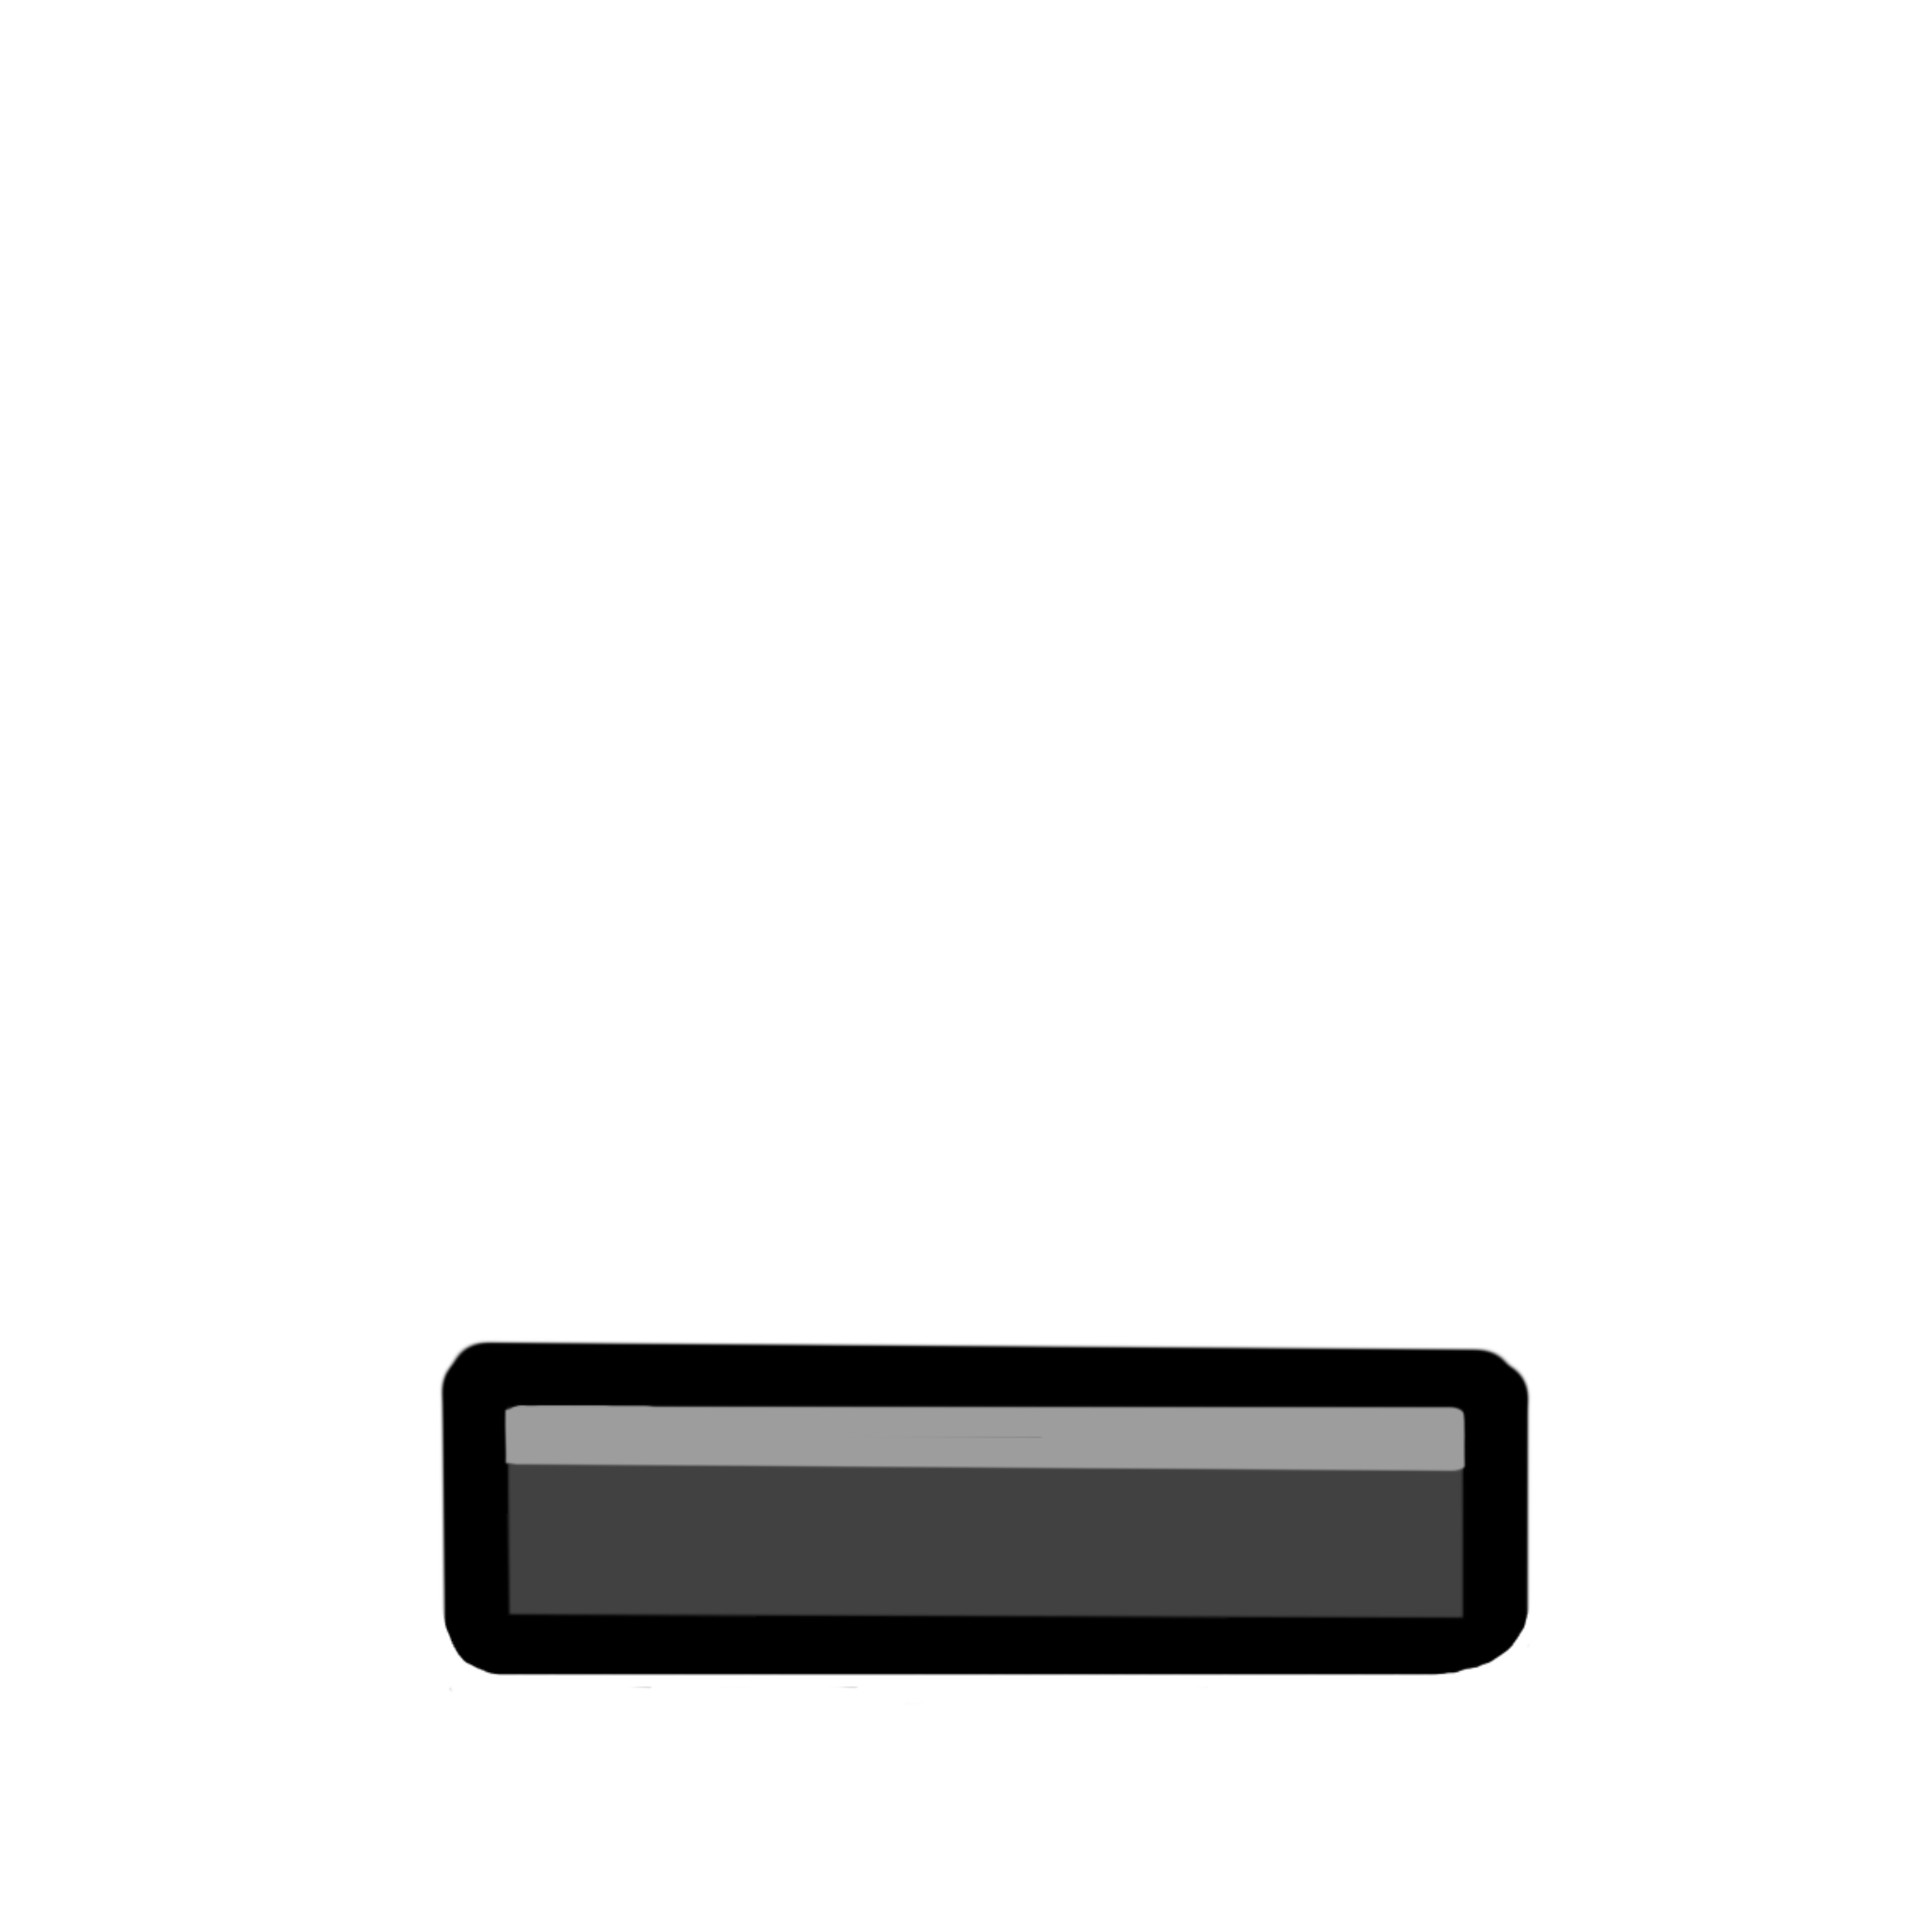
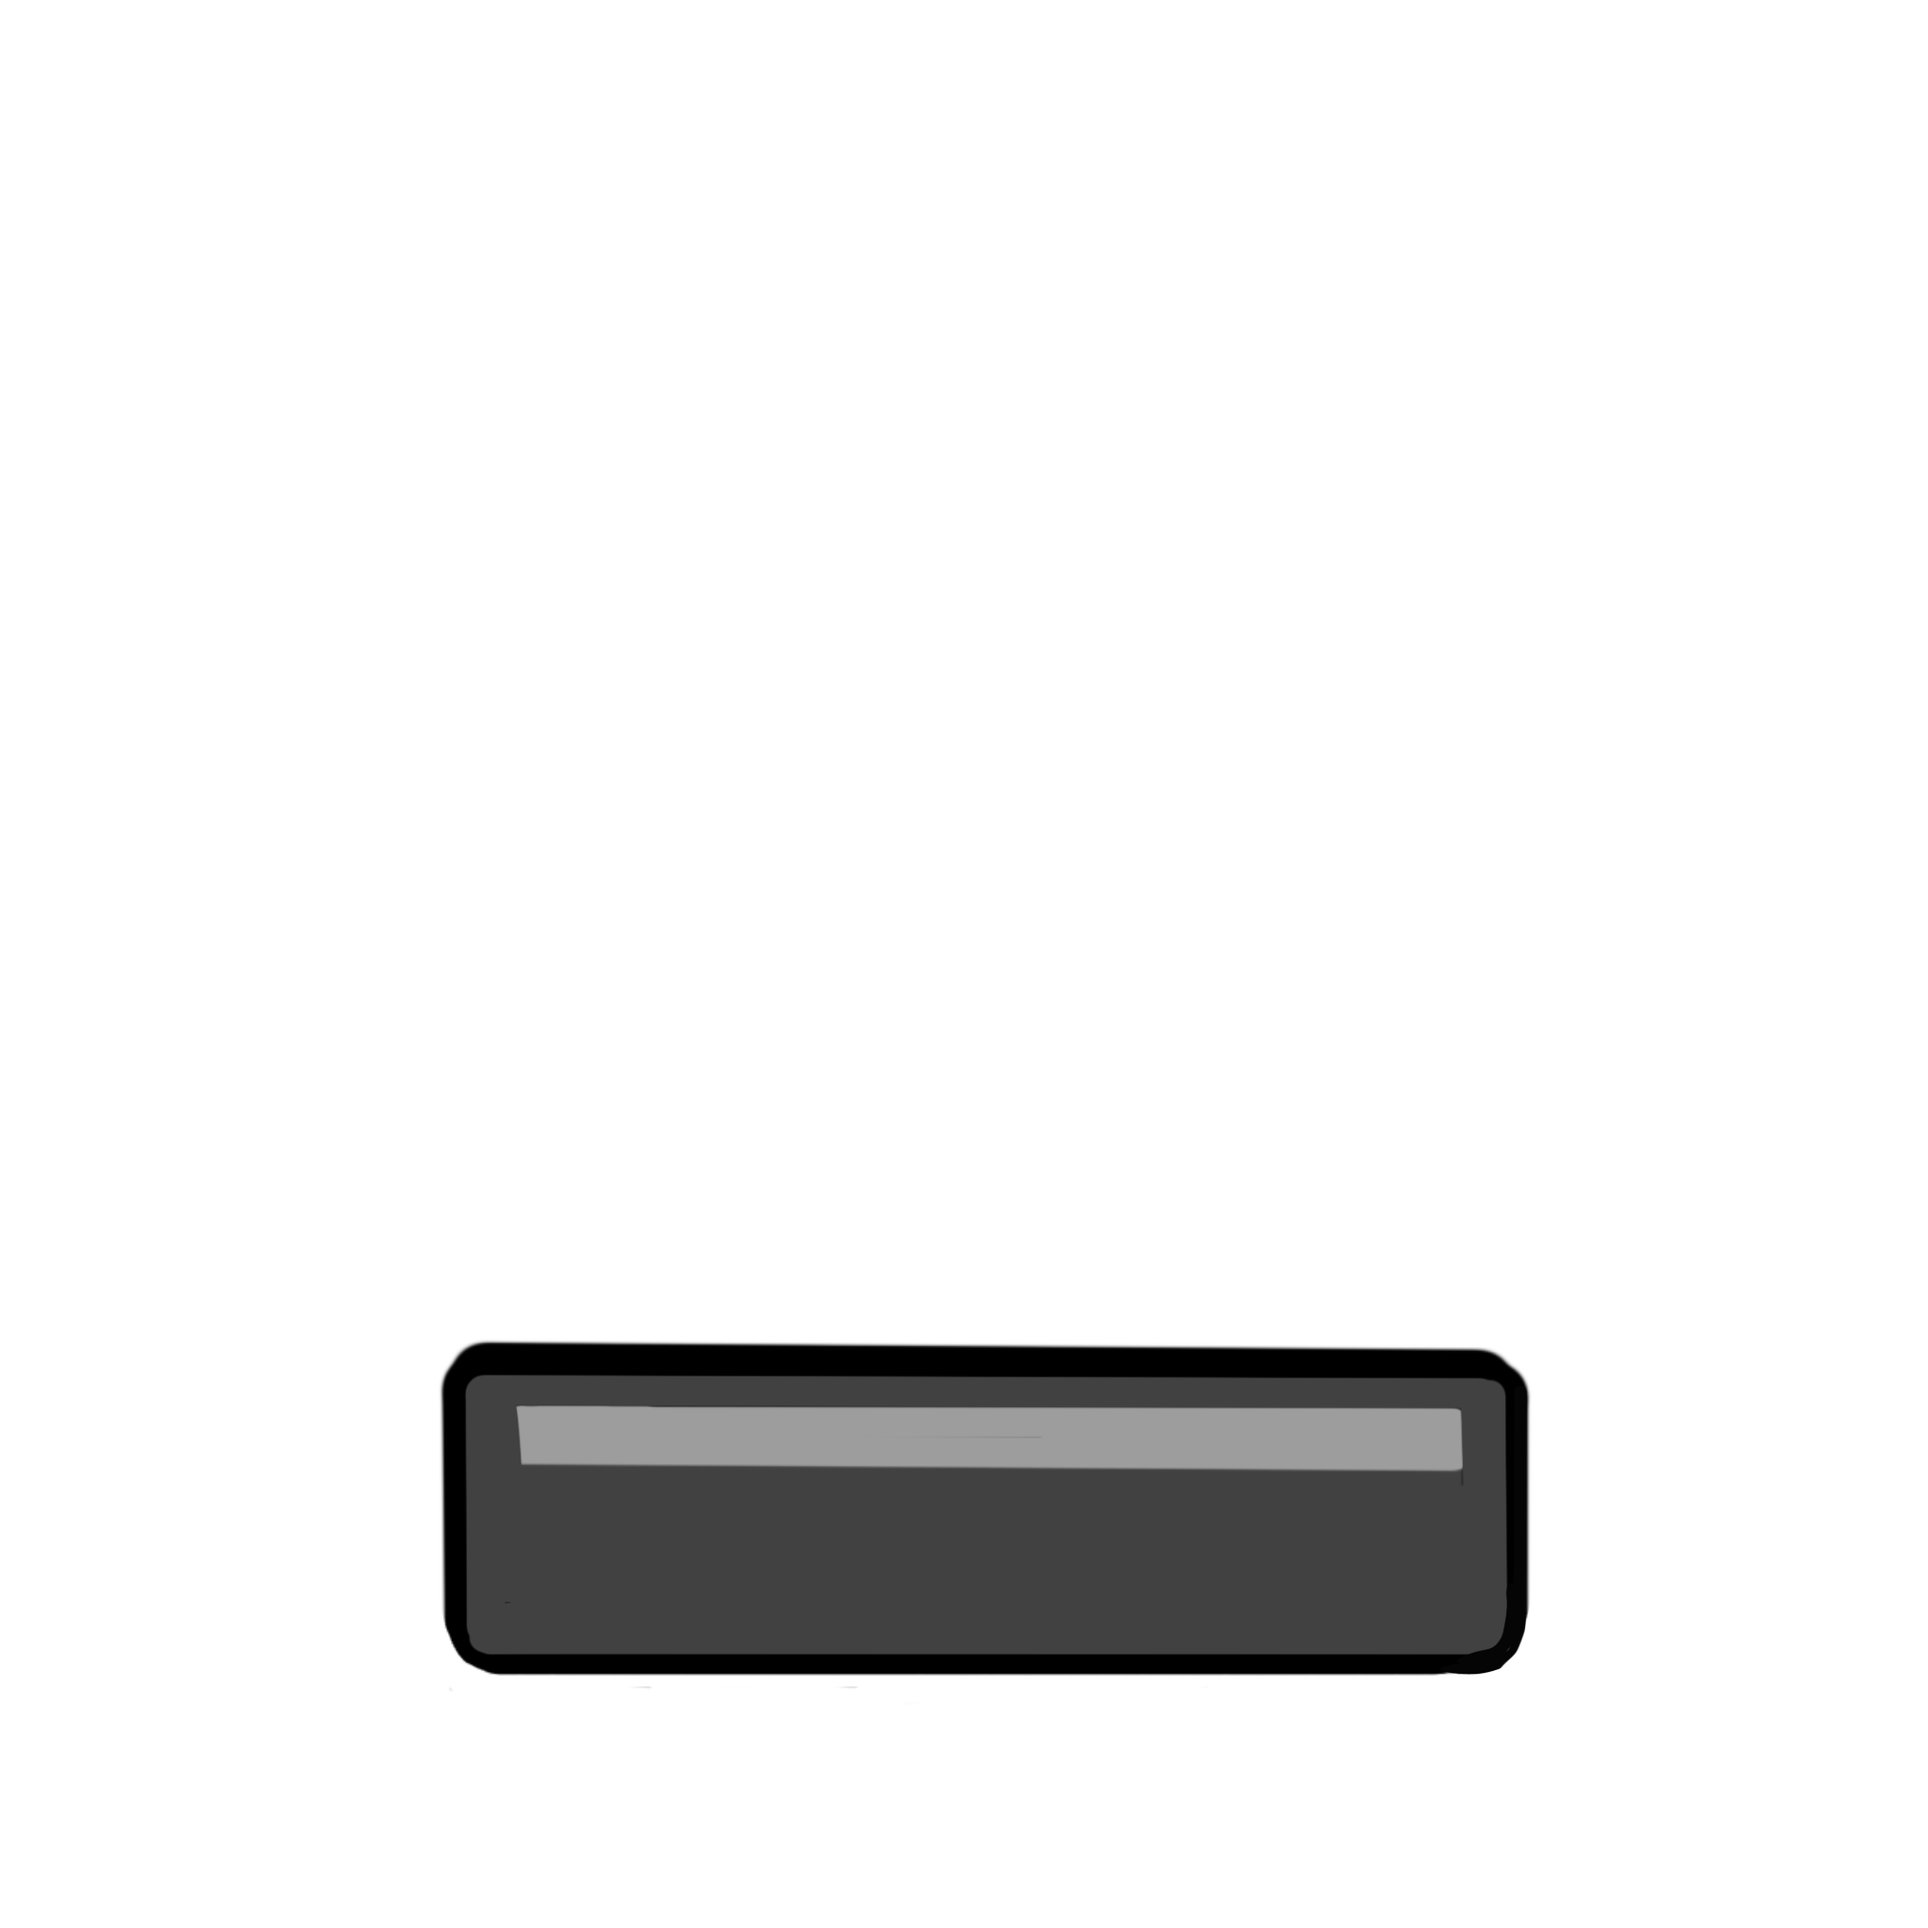
separate

Changed region(s): [[0.2188, 0.6875, 0.7812, 0.875]]

diff --git a/core/src/edu/cornell/gdiac/game/object/Activator.java b/core/src/edu/cornell/gdiac/game/object/Activator.java
@@ -1,6 +1,7 @@
 package edu.cornell.gdiac.game.object;
 
 import com.badlogic.gdx.graphics.Color;
+import com.badlogic.gdx.graphics.Texture;
 import com.badlogic.gdx.graphics.g2d.TextureRegion;
 import com.badlogic.gdx.math.Vector2;
 import com.badlogic.gdx.physics.box2d.*;
@@ -31,6 +32,8 @@ public abstract class Activator extends PolygonObstacle {
     /** How long the activator has been animating */
     private float animationTime;
     /** Shape of the sensor that presses this activator */
+    private Texture topTexture;
+    private TextureRegion bottomTexture;
     private PolygonShape sensorShape;
     /** The number of objects pressing on this activator */
     public int numPressing;
@@ -74,13 +77,13 @@ public abstract class Activator extends PolygonObstacle {
      * @param scale          Draw scale for drawing
      * @param textureScale   Texture scale for rescaling texture
      */
-    public Activator(ObjectMap<String, Object> properties, HashMap<String, TextureRegion> tMap, Vector2 scale, Vector2 textureScale){
+    public Activator(ObjectMap<String, Object> properties, String texture_name, HashMap<String, TextureRegion> tMap, Vector2 scale, Vector2 textureScale){
         super(objectConstants.get("body_shape").asFloatArray());
-        setDrawScale(scale);
-        int spriteWidth = 32;
-        int spriteHeight = 32;
+        topTexture = tMap.get(texture_name).getTexture();
+        bottomTexture = tMap.get("button_base");
+        setTexture(bottomTexture);
         setTextureScale(textureScale);
-        spriteFrames = TextureRegion.split(tMap.get("button_anim").getTexture(), spriteWidth, spriteHeight);
+        spriteFrames = TextureRegion.split(tMap.get(texture_name).getTexture(), 2048,2048);
         float frameDuration = 0.2f;
         animation = new Animation<>(frameDuration, spriteFrames[0]);
         setBodyType(BodyDef.BodyType.StaticBody);
@@ -88,7 +91,6 @@ public abstract class Activator extends PolygonObstacle {
         animationTime = 0f;
 
         setDrawScale(scale);
-        setTexture(tMap.get("button"));
         setFixedRotation(true);
 
         id = (String) properties.get("id");
@@ -100,18 +102,20 @@ public abstract class Activator extends PolygonObstacle {
 
     @Override
     public void draw(GameCanvas canvas){
+        TextureRegion currentFrame;
         if(isPressed()){
-            animation.setPlayMode(Animation.PlayMode.REVERSED);
-            animationTime += Gdx.graphics.getDeltaTime();
-            TextureRegion currentFrame = animation.getKeyFrame(animationTime);
-            canvas.draw(currentFrame, getX()*drawScale.x,getY()*drawScale.x);
-        }
-        else {
             animation.setPlayMode(Animation.PlayMode.NORMAL);
             animationTime += Gdx.graphics.getDeltaTime();
-            TextureRegion currentFrame = animation.getKeyFrame(animationTime);
-            canvas.draw(currentFrame, getX()*drawScale.x,getY()*drawScale.x);
+            currentFrame = animation.getKeyFrame(animationTime);
         }
+        else {
+            animation.setPlayMode(Animation.PlayMode.REVERSED);
+            animationTime += Gdx.graphics.getDeltaTime();
+            currentFrame = animation.getKeyFrame(animationTime);
+        }
+        float x = getX()*drawScale.x-currentFrame.getRegionWidth()/drawScale.x/4;
+        canvas.draw(currentFrame, Color.WHITE, origin.x, origin.y, x, getY()*drawScale.y, 0, 1f/drawScale.x, 1f/drawScale.y);
+        canvas.draw(bottomTexture, Color.WHITE, origin.x, origin.y, x, (getY())*drawScale.y, 0, 1f/drawScale.x, 1f/drawScale.y);
     }
 
     /**

diff --git a/core/src/edu/cornell/gdiac/game/GameController.java b/core/src/edu/cornell/gdiac/game/GameController.java
@@ -393,7 +393,7 @@ public class GameController implements Screen {
                 "background", "flame_anim", "roboMob",
                 "spirit_anim", "spirit_photon", "spirit_photon_cat", "spirit_region",
                 "meow_anim", "idle_anim", "idle_anim_stand",
-                "metal_tileset", "steel","burnCat", "deadCat2"};
+                "metal_tileset", "steel","burnCat", "deadCat2","button_base","button_top","switch_top"};
 
         for (String n : names){
             textureRegionAssetMap.put(n, new TextureRegion(directory.getEntry(n, Texture.class)));

diff --git a/core/src/edu/cornell/gdiac/game/object/TimedButton.java b/core/src/edu/cornell/gdiac/game/object/TimedButton.java
@@ -32,7 +32,7 @@ public class TimedButton extends Activator {
      * @param textureScale   Texture scale for rescaling texture
      */
     public TimedButton(ObjectMap<String, Object> properties, HashMap<String, TextureRegion> tMap, Vector2 scale, Vector2 textureScale){
-        super(properties, tMap, scale, textureScale );
+        super(properties, "button_top",tMap, scale, textureScale );
         totalDurationTicks = (int) properties.get("duration");
         pressedTicks = 0;
         setName("timedButton");

diff --git a/core/src/edu/cornell/gdiac/game/object/Switch.java b/core/src/edu/cornell/gdiac/game/object/Switch.java
@@ -29,7 +29,7 @@ public class Switch extends Activator {
      * @param textureScale   Texture scale for rescaling texture
      */
     public Switch(ObjectMap<String, Object> properties, HashMap<String, TextureRegion> tMap, Vector2 scale, Vector2 textureScale){
-        super(properties, tMap, scale, textureScale);
+        super(properties, "switch_top",tMap, scale, textureScale);
         prevPressed = false;
         setName("switch");
     }

diff --git a/core/src/edu/cornell/gdiac/game/object/Button.java b/core/src/edu/cornell/gdiac/game/object/Button.java
@@ -27,7 +27,7 @@ public class Button extends Activator {
      * @param textureScale   Texture scale for rescaling texture
      */
     public Button(ObjectMap<String, Object> properties, HashMap<String, TextureRegion> tMap, Vector2 scale, Vector2 textureScale){
-        super(properties, tMap, scale, textureScale);
+        super(properties, "button_top", tMap,scale, textureScale);
     }
 
     /** For a button, active = isPressed() */
